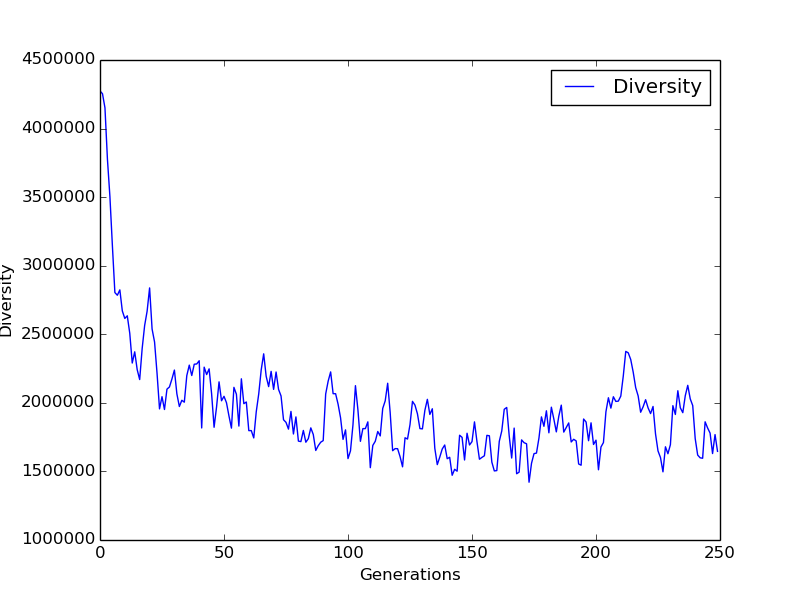
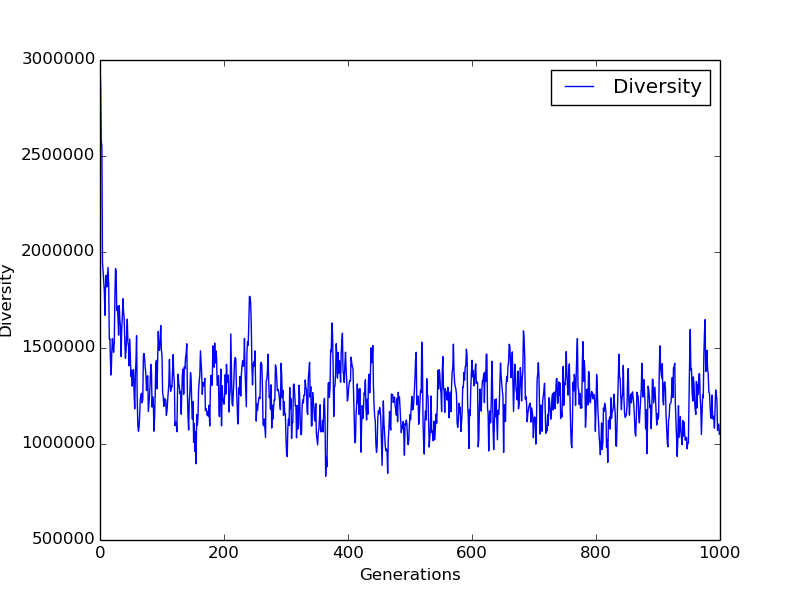
Linear Scaling Done

diff --git a/OCEV/naturalSelection.py b/OCEV/naturalSelection.py
@@ -1,9 +1,47 @@
 import random
 import math as mt
 import variaveis as var
+import functools
 
 # SELECAO NATURAL
 # Selecao Roleta
+def selectRouletteLinearScaling(matriz,pop,d,ce):
+  matfit=[]
+  newFit=[]
+  relativeFit=[]
+  for i in range(pop):
+    matfit.append(matriz[i][d])
+  minFit=99999
+  maxFit=0
+  avgFit=0
+  fitsom=0
+  for i in range(pop):
+    if(matfit[i]>maxFit):
+      maxFit=matfit[i]
+    if(matfit[i]<minFit):
+      minFit=matfit[i]
+    fitsom=fitsom+matfit[i]
+  avgFit=fitsom/pop
+  alpha=0
+  beta=0
+  if(minFit>(ce*avgFit-maxFit/(ce-1))):
+    alpha=(avgFit*(ce-1))/(maxFit-avgFit)
+    beta=(avgFit*(maxFit-ce*avgFit))/(maxFit-avgFit)
+  else:
+    alpha=avgFit/(avgFit-minFit)
+    beta=(-minFit*avgFit)/(avgFit-minFit)
+  for i in range(pop):
+    meufit=matfit[i]
+    novofit=meufit*alpha+beta
+    newFit.append(novofit)
+    if(i>=1):
+      relativeFit.append((novofit/fitsom)+relativeFit[i-1])
+    else:
+      relativeFit.append(novofit/fitsom)
+  num = random.random()
+  for i in range(pop):
+    if(relativeFit[i]>num):
+      return i
 
 def selectRoulette(matriz, pop, d):
   submat = []
@@ -22,25 +60,6 @@ def selectRoulette(matriz, pop, d):
     current += submat[i]
     if current > compare:
       return i 
-
-# def selectRoulette(matriz, pop, d):
-#   submat = []
-#   submat2 = []
-#   summ = 0
-#   for i in range(pop):
-#     submat.append(matriz[i][d])
-#   for i in range(pop):
-#     summ = summ + submat[i]
-#   for i in range(pop):
-#     submat2.append(submat[i]/summ)
-#   y = random.random()
-#   i = 0 
-#   while True:
-#     if y<submat2[i]:
-#       return i
-#     else:
-#       y = y-submat2[i]
-#       i = i+1
 
 # selecao torneio
 def selectTournament(matriz,pop,d,k):

diff --git a/OCEV/main.py b/OCEV/main.py
@@ -34,6 +34,8 @@ def main():
   divers = []
   divers1 = 0
   worst = 0
+  ce = 1.2
+  inc = 0.8/var.generations
 
   if var.problem == 1:
     objective = fit.bitsAlternados(initPop,var.pop_size,var.d_size)
@@ -55,11 +57,17 @@ def main():
     newGen = []
     while len(newGen)!= var.pop_size:
       if var.selection == 1:
-        dad = ns.selectRoulette(objective,var.pop_size,var.d_size)
-        mom = ns.selectRoulette(objective,var.pop_size,var.d_size)
+        if var.linearScaling == True:
+          dad = ns.selectRouletteLinearScaling(objective,var.pop_size,var.d_size,ce)
+          mom = ns.selectRouletteLinearScaling(objective,var.pop_size,var.d_size,ce)
+          ce += inc
+        else:
+          dad = ns.selectRoulette(objective,var.pop_size,var.d_size)
+          mom = ns.selectRoulette(objective,var.pop_size,var.d_size)
       elif var.selection == 2:
         dad = ns.selectTournament(objective,var.pop_size,var.d_size,var.k)
         mom = ns.selectTournament(objective,var.pop_size,var.d_size,var.k)
+        
       if crs.cross():
         if var.cover == 1:
           child1,child2 = crs.onePointCrossover(objective,var.pop_size,var.d_size,dad,mom)

diff --git a/OCEV/variaveis.py b/OCEV/variaveis.py
@@ -1,9 +1,9 @@
 import random
 import math as mt
 
-generations = 250
-k = 2
-pop_size = 100
+generations = 1000
+k = 5
+pop_size = 70
 d_size = 64
 bounds = [-50,50]
 
@@ -14,6 +14,10 @@ elitism = True
 # selection = 1
 selection = 2
 
+# Linear Scaling
+linearScaling = True
+# linearScaling = False
+
 # 1 = Bits Alternados, 2 = Pares Alternados, 3 = sphere min , 4 = Radio, 5 = Graphic Pattern, 6 = N - Queens
 # problem = 1
 # problem = 2
@@ -22,7 +26,7 @@ selection = 2
 # problem = 5
 problem = 6
 
-# 1 = onePoint; 2 = Uniform; 3 = BLX; 4 = Average; 5 = PLX
+# 1 = onePoint; 2 = Uniform; 3 = BLX; 4 = Average; 5 = PMX
 # cover = 1
 # cover = 2
 # cover = 3

diff --git a/OCEV/fitness.py b/OCEV/fitness.py
@@ -107,16 +107,11 @@ def nQueens(matriz,pop,d):
       for k in range((j+1),d):
         if abs(matriz[i][j] - matriz[i][k]) == abs(k - j):
           collision += 1.0
-      # submat.append(matriz[i][j])
-    # for k in range(d-1):
-    #   for l in range((i+1),d):
-    #     if abs(submat[k] - submat[l]) == abs(l - k):
-    #       collision += 1.0
     fitness = 1.0 - (collision/d)
     matriz[i].append(fitness)
     submat = []
     fitness = 0.0
     collision = 0.0
-  # printPopulacaoEFitness(matriz,pop,d)
   return matriz
 
+# 

diff --git a/OCEV/plotPram.py b/OCEV/plotPram.py
@@ -12,7 +12,6 @@ def getBest(matriz,pop,d):
   for i in range(d):
     if submat[i] > best:
       best = submat[i]
-      # print(best) 
   return best
 
 def averageInd(matriz,pop,d):
